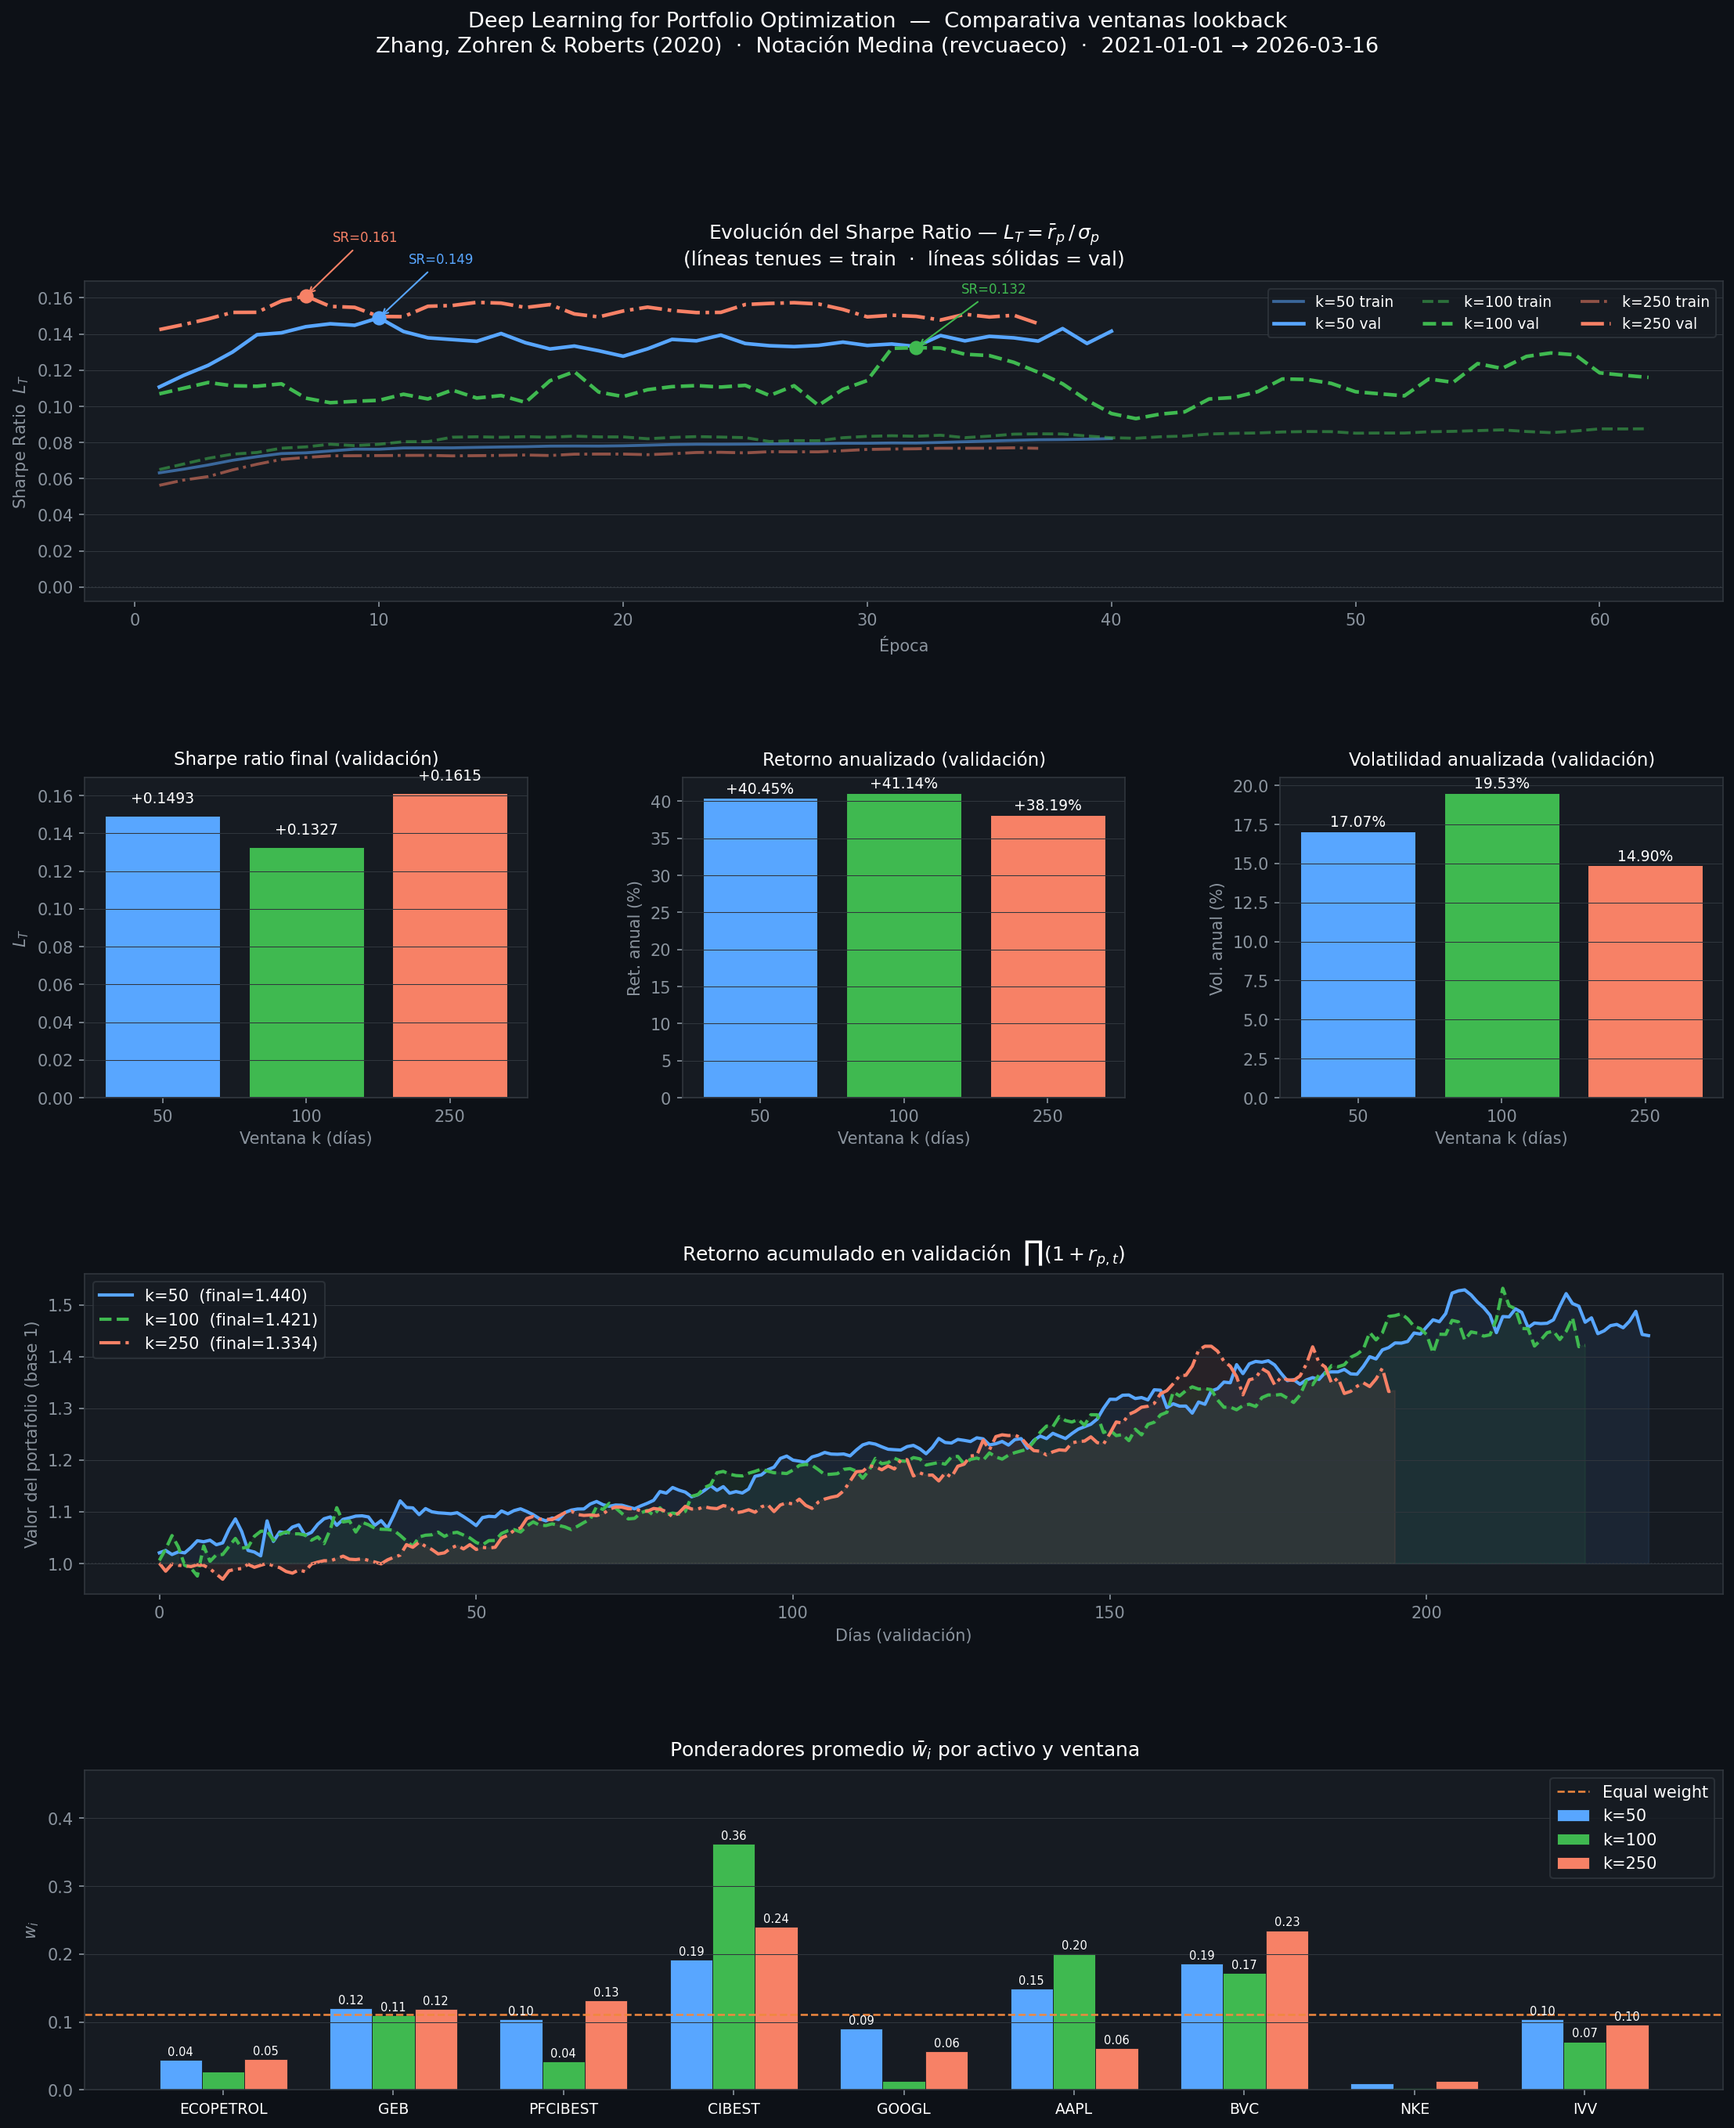
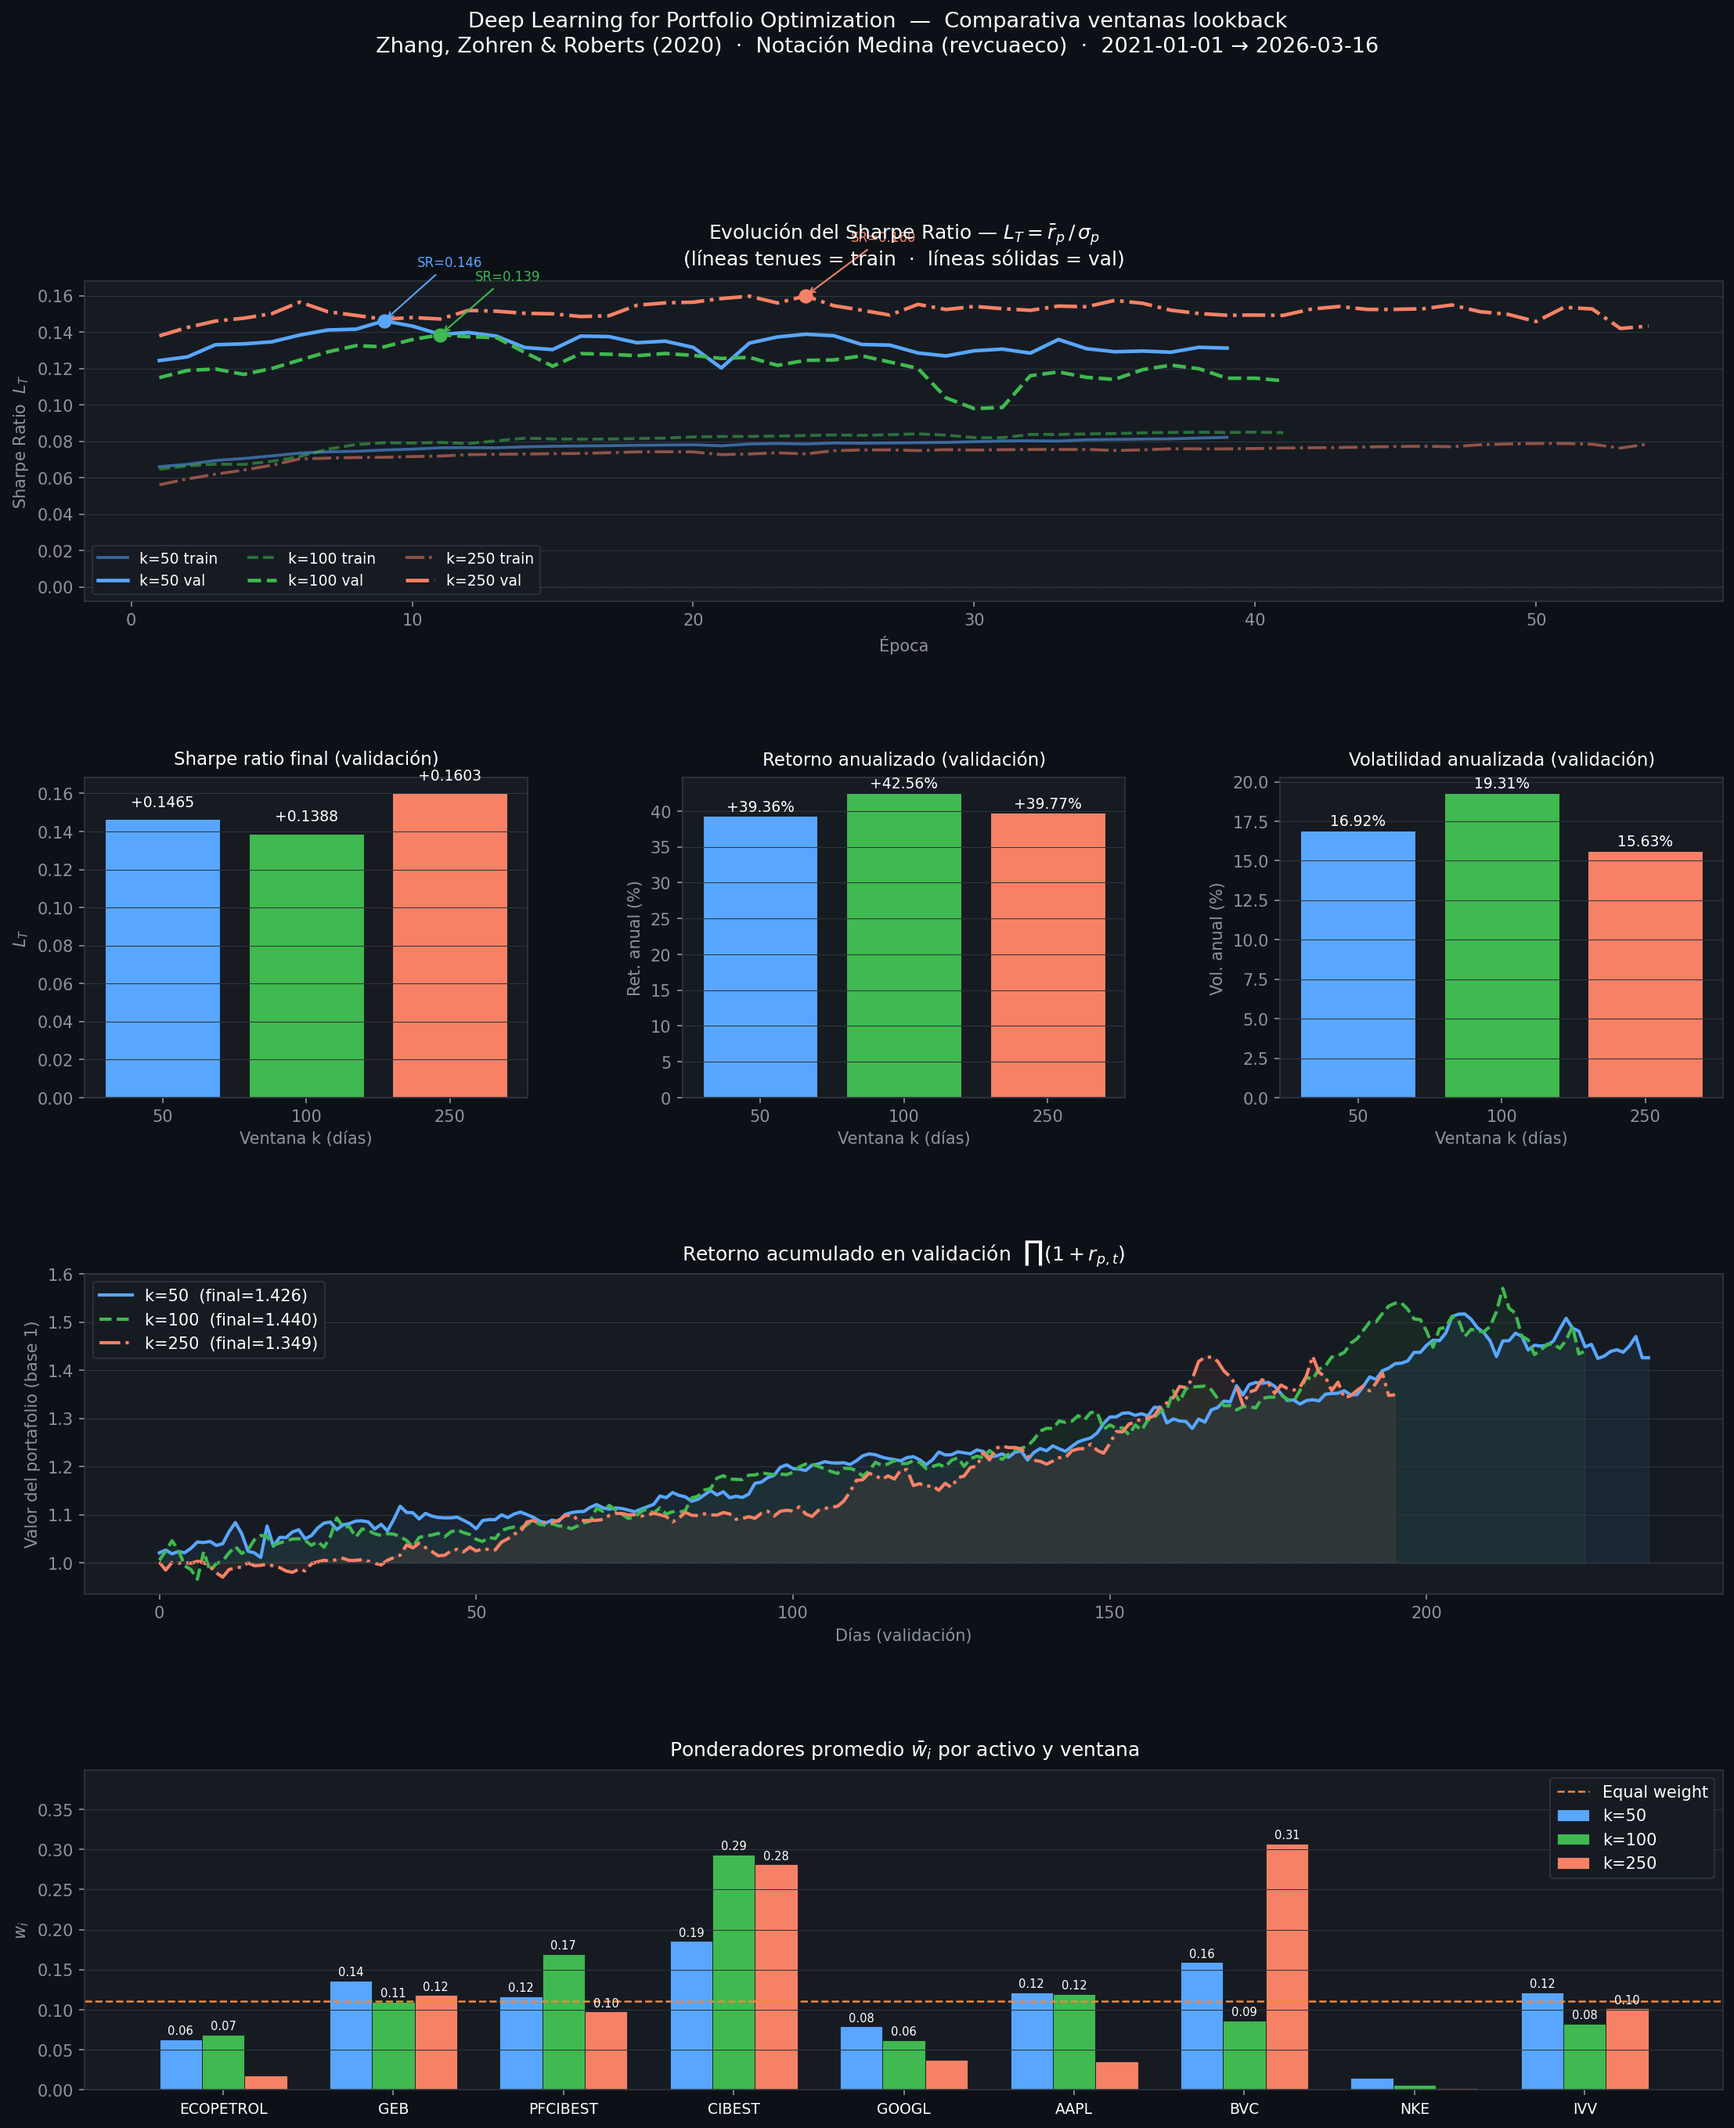
Add equal weight portfolio notebook and update Zhang LSTM baseline
- Add equal_weight.ipynb: cumulative return plot with train/val split line
- Add equal weight (1/n) baseline Sharpe printout to zhang_portfolio.py
- Update zhang_best_weights.json and sharpe_comparativa.png with latest run
- Remove obsolete portfoli_deep.py and worktree reference

diff --git a/zhang_portfolio.py b/zhang_portfolio.py
@@ -255,6 +255,7 @@ def entrenar(modelo, X_train, r_train, X_val, r_val,
             end = min(start + batch_size, n_samples)
             batch_idx = indices[start:end]
 
+
             X_batch = X_train[batch_idx]
             r_batch = r_train[batch_idx]
 
@@ -317,6 +318,15 @@ def _run_k(precios, activos, k, hidden=64, epochs=100,
     r_train = torch.FloatTensor(r[:T_train])
     X_val   = torch.FloatTensor(X[T_train:])
     r_val   = torch.FloatTensor(r[T_train:])
+
+    # Crea un tensor de pesos uniformes (1/9 para cada activo)
+    w_eq_train = torch.ones_like(r_train) / n
+    sharpe_eq_train = sharpe_loss(w_eq_train, r_train).item() * -1
+
+    w_eq_val = torch.ones_like(r_val) / n
+    sharpe_eq_val = sharpe_loss(w_eq_val, r_val).item() * -1
+
+    print(f"Baseline (1/n) -> Train Sharpe: {sharpe_eq_train:.4f} | Val Sharpe: {sharpe_eq_val:.4f}")
 
     modelo = LSTMPortfolio(n_activos=n, k=k, hidden_size=hidden)
     historial = entrenar(modelo, X_train, r_train, X_val, r_val,
